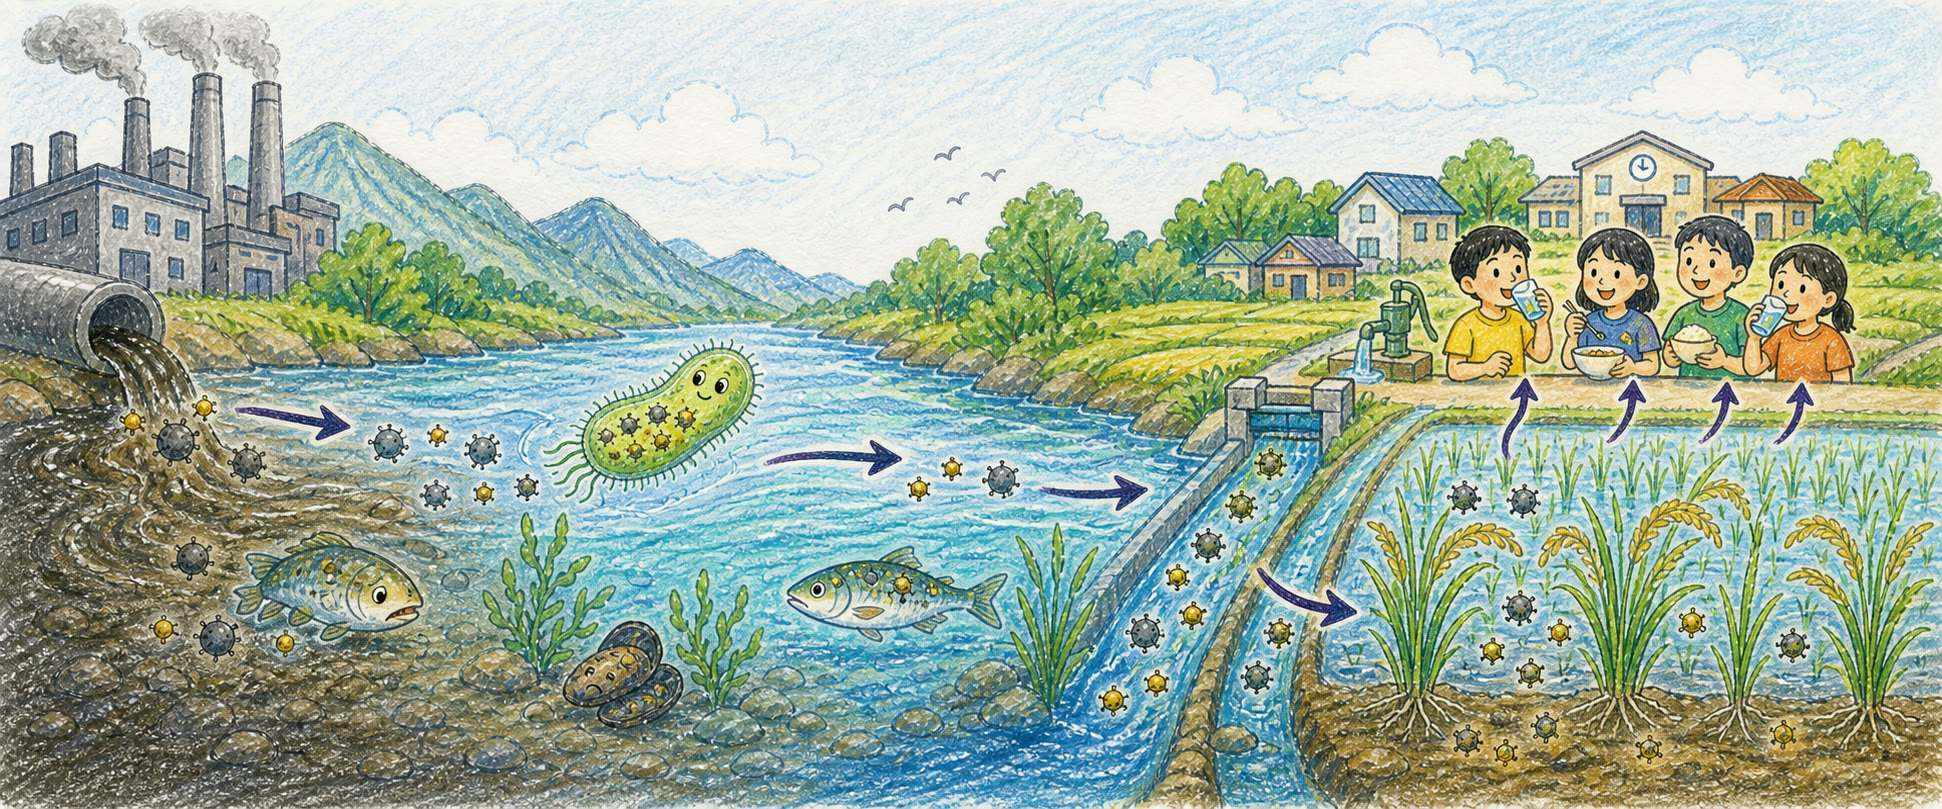
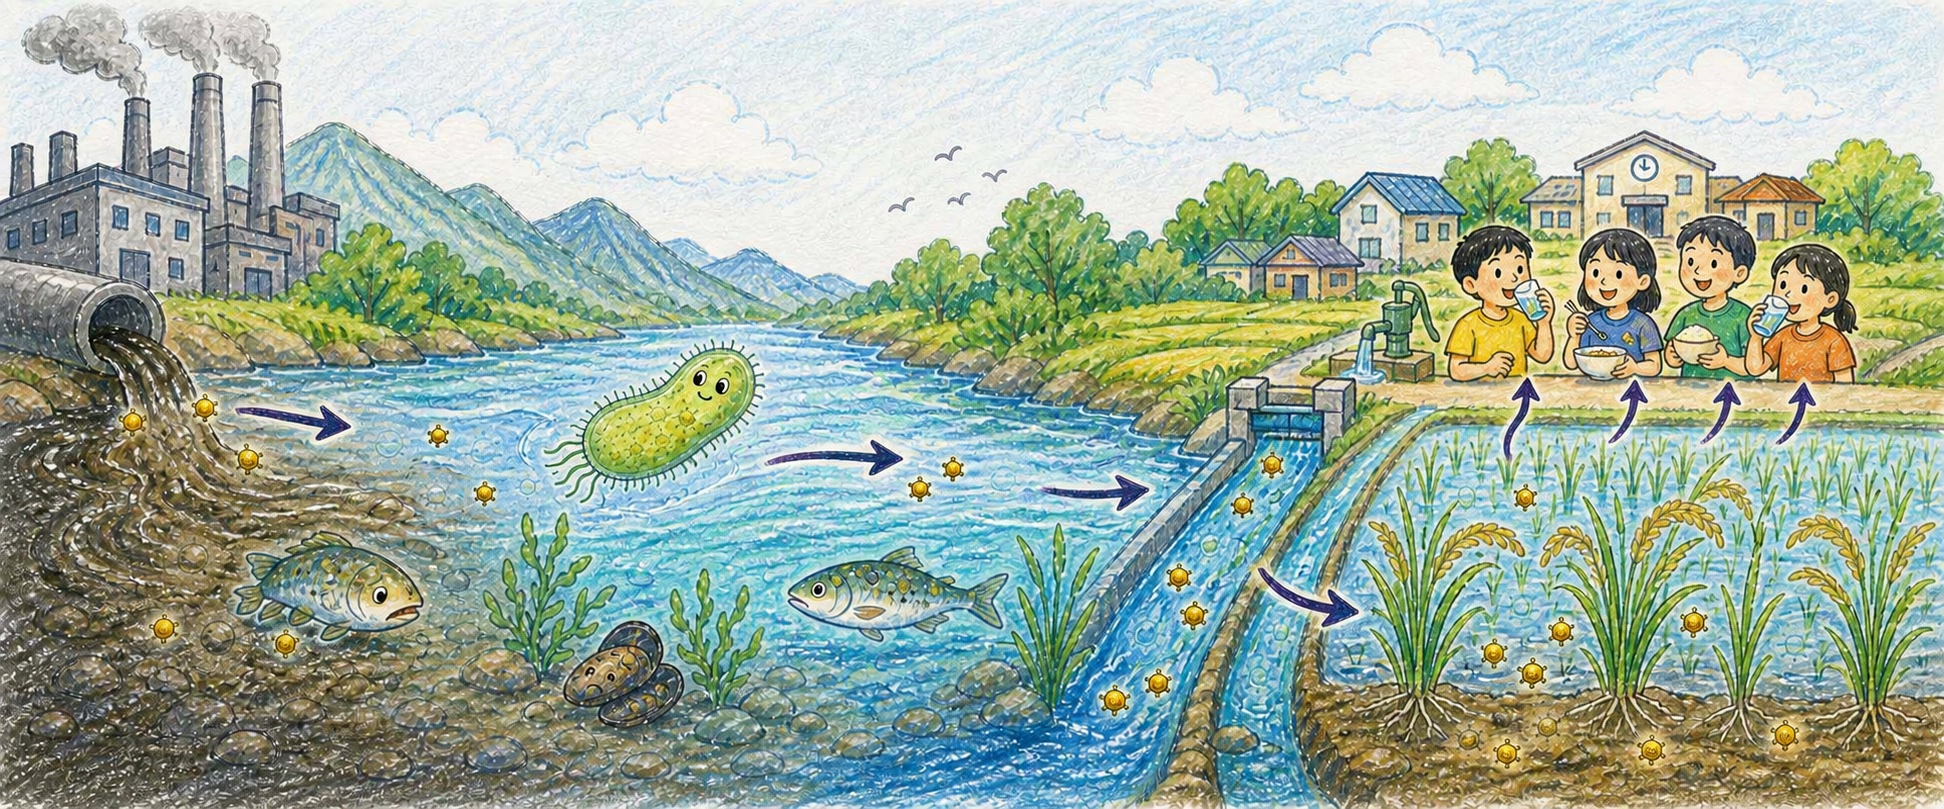
refine homepage artwork

Changed region(s): [[0.0, 0.0618, 1.0, 1.0], [0.0309, 0.0309, 0.0927, 0.0927]]

diff --git a/wiki/base.html b/wiki/base.html
@@ -179,7 +179,7 @@
     <div class="hero-container">
 
       <div class="hero-banner">
-        <img src="{{ url_for('static', filename='assets/images/full-hero-banner-handdrawn.jpg', v='20260820') }}"
+        <img src="{{ url_for('static', filename='assets/images/full-hero-banner-handdrawn.jpg', v='20261013-pb1') }}"
           class="hero-background img-fluid"
           alt="Hand-drawn river scene showing an engineered bacterium capturing heavy-metal particles as polluted water becomes clean">
         <div class="hero-scroll-cue" aria-hidden="true">

diff --git a/docs/home.md b/docs/home.md
@@ -12,7 +12,7 @@
             </header>
 
             <figure class="pollution-panorama-v2">
-                <img src="static/assets/images/problem/pollution-path-panorama-optimized.jpg" alt="A colored-pencil panorama showing heavy metals moving from industrial wastewater through a river and rice fields to a nearby community">
+                <img src="static/assets/images/problem/pollution-path-panorama-optimized.jpg?v=20261013-pb1" alt="A colored-pencil panorama showing heavy metals moving from industrial wastewater through a river and rice fields to a nearby community">
                 <figcaption class="metal-legend-v2"> <span class="metal-cd"></span> Cadmium (Cd)</figcaption>
             </figure>
 
@@ -43,7 +43,7 @@
                 </figure>
 
                 <div class="location-window-v2">
-                    <img src="static/assets/images/taiwan-scenes/taiwan-city-vignettes-optimized.jpg" alt="Three colored-pencil scenes showing industrial river discharge, agricultural irrigation, and harbor pollution in Taiwan">
+                    <img src="static/assets/images/taiwan-scenes/taiwan-city-vignettes-optimized.jpg?v=20261013-pb1" alt="Three colored-pencil scenes showing industrial river discharge, agricultural irrigation, and harbor pollution in Taiwan">
                     <div class="location-copy-v2 is-active" data-map-step="0"><span>Taoyuan</span><h3>Industrial parks meet the river</h3><p>Electronics and metal-processing effluent can introduce Cd into northern waterways.</p></div>
                     <div class="location-copy-v2" data-map-step="1"><span>Taichung</span><h3>River pollution reaches farmland</h3><p>Irrigation creates a direct path from contaminated water to soil, crops, and food safety.</p></div>
                     <div class="location-copy-v2" data-map-step="2"><span>Kaohsiung</span><h3>Industry meets the harbor</h3><p>Industrial discharge and busy port activity increase the metal load faced by coastal ecosystems.</p></div>
@@ -209,7 +209,7 @@ document.addEventListener("DOMContentLoaded", function () {
             </header>
 
             <figure class="treatment-panorama-v2">
-                <img src="static/assets/images/solution/bioremediation-process-panorama-optimized.jpg" alt="A colored-pencil treatment channel showing polluted water, engineered bacteria binding metals, membrane separation, metal recovery, and clean water">
+                <img src="static/assets/images/solution/bioremediation-process-panorama-optimized.jpg?v=20261013-pb1" alt="A colored-pencil treatment channel showing polluted water, engineered bacteria binding metals, membrane separation, metal recovery, and clean water">
             </figure>
 
             <ol class="treatment-steps-v2" aria-label="Biological heavy-metal treatment steps">
